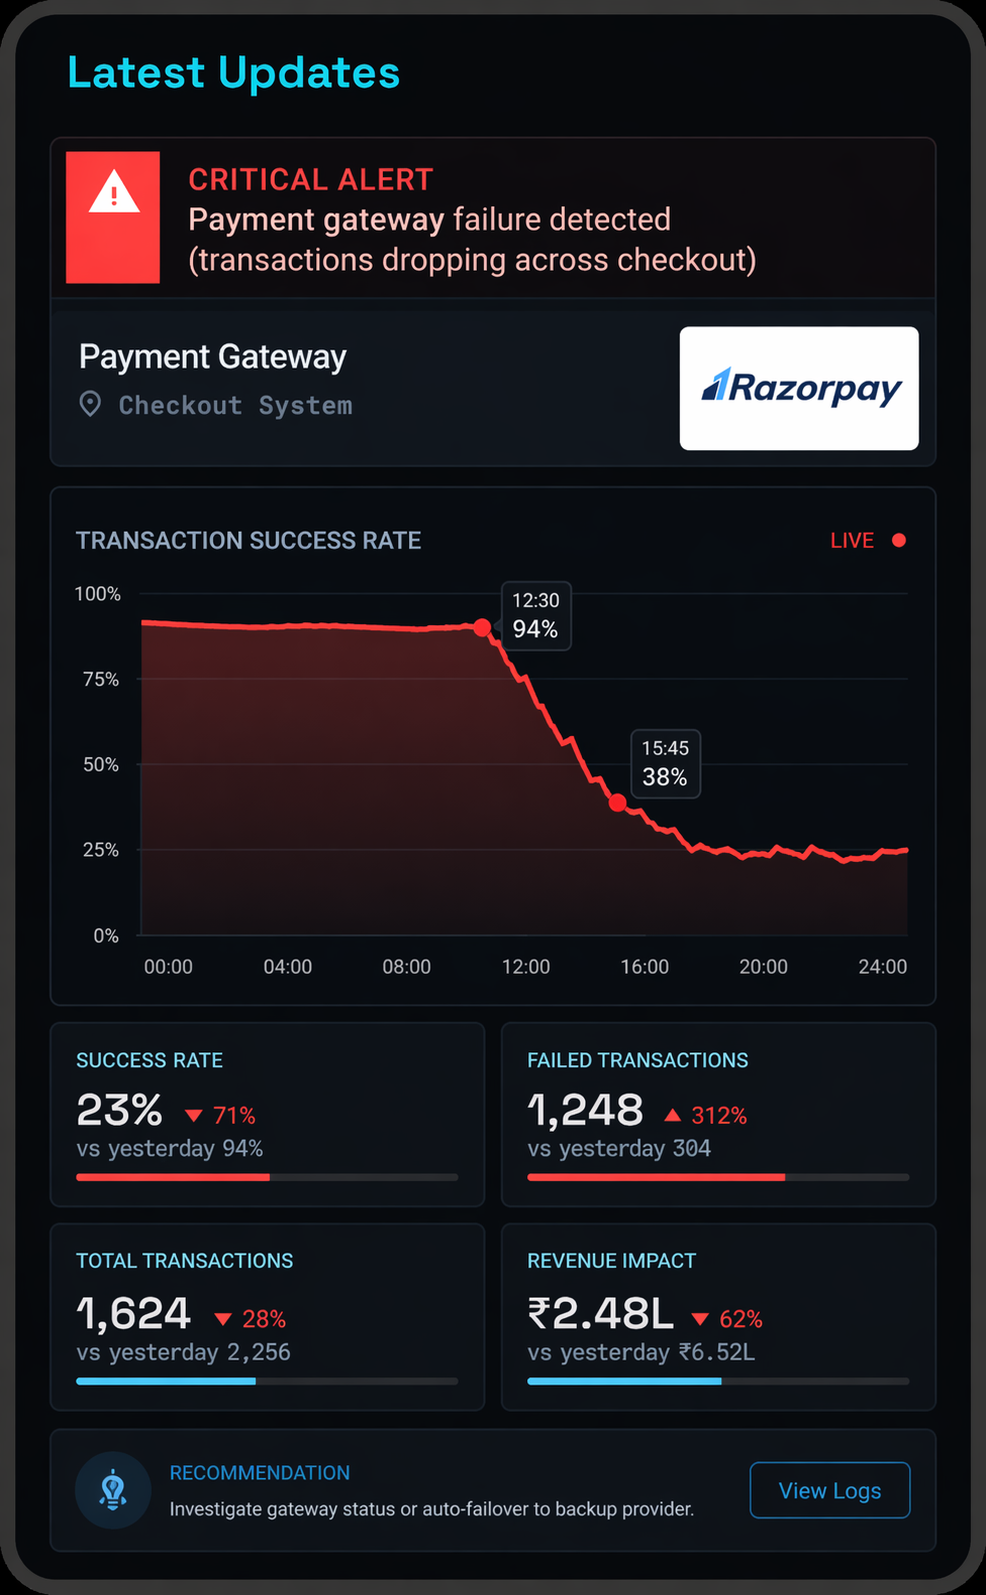
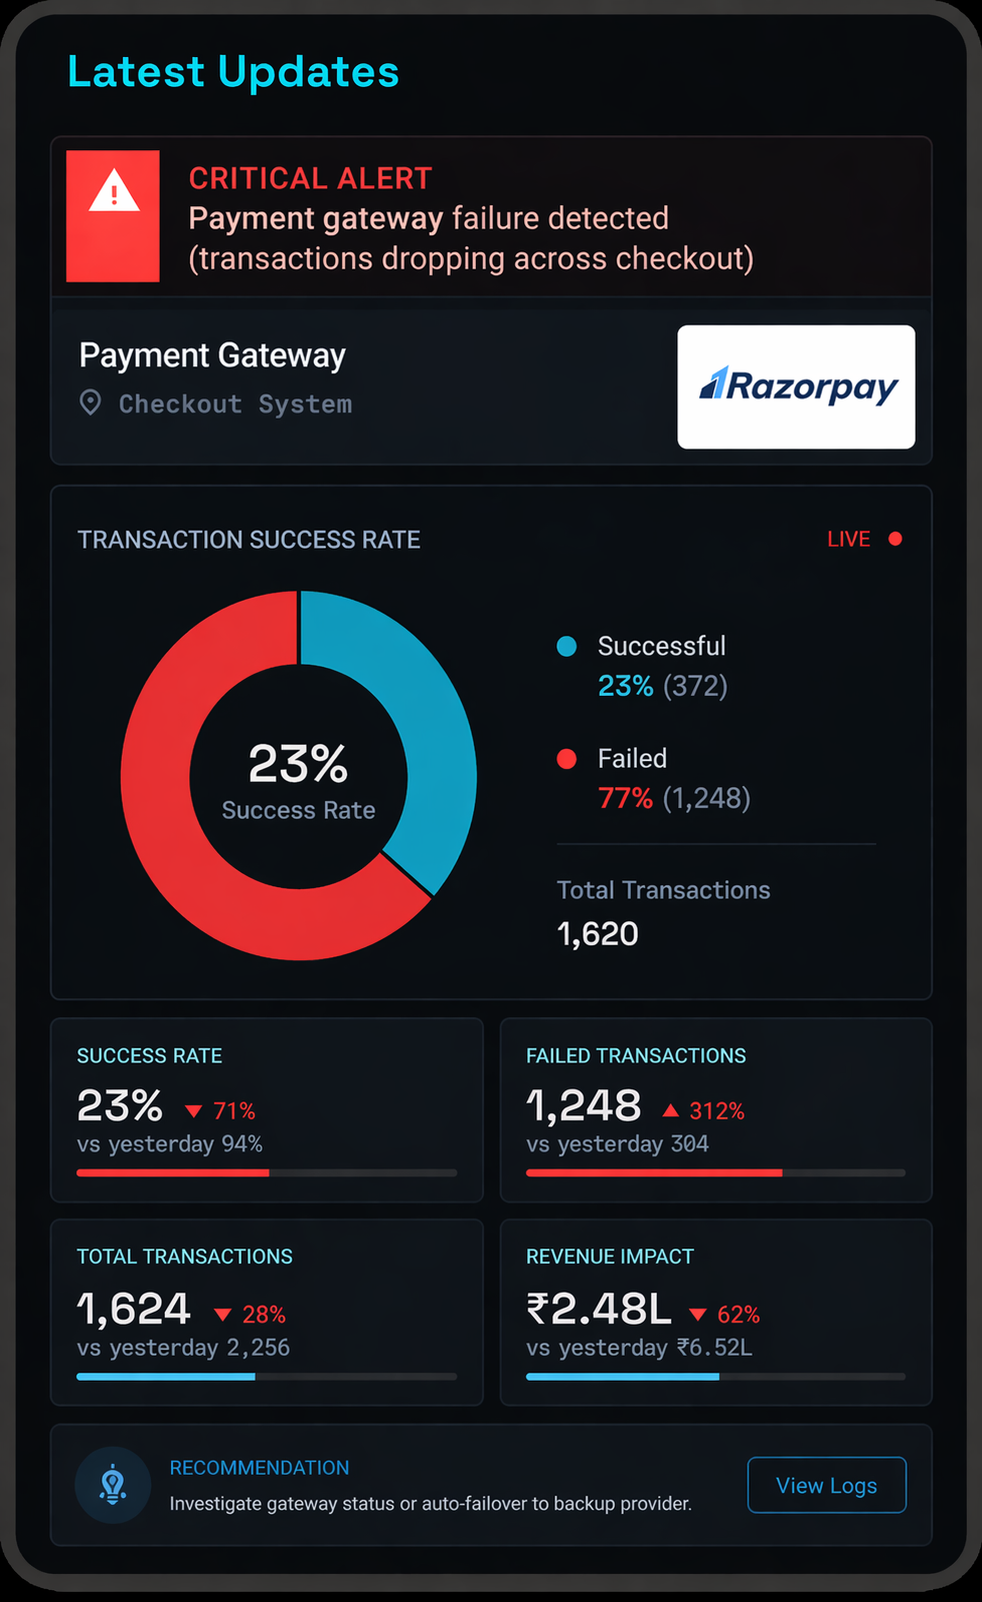
new images via gpt @1am

diff --git a/index.html b/index.html
@@ -120,7 +120,7 @@
                     dashboard for quick understanding and better decisions.</p>
             </div>
             <div class="preview-visual text-center">
-                <img src="dashboard-charts.jpeg" alt="Complete Dashboard Overview" class="full-preview-img">
+                <img src="dashboard-hero-gpt.png" alt="Complete Dashboard Overview" class="full-preview-img">
             </div>
         </section>
 
